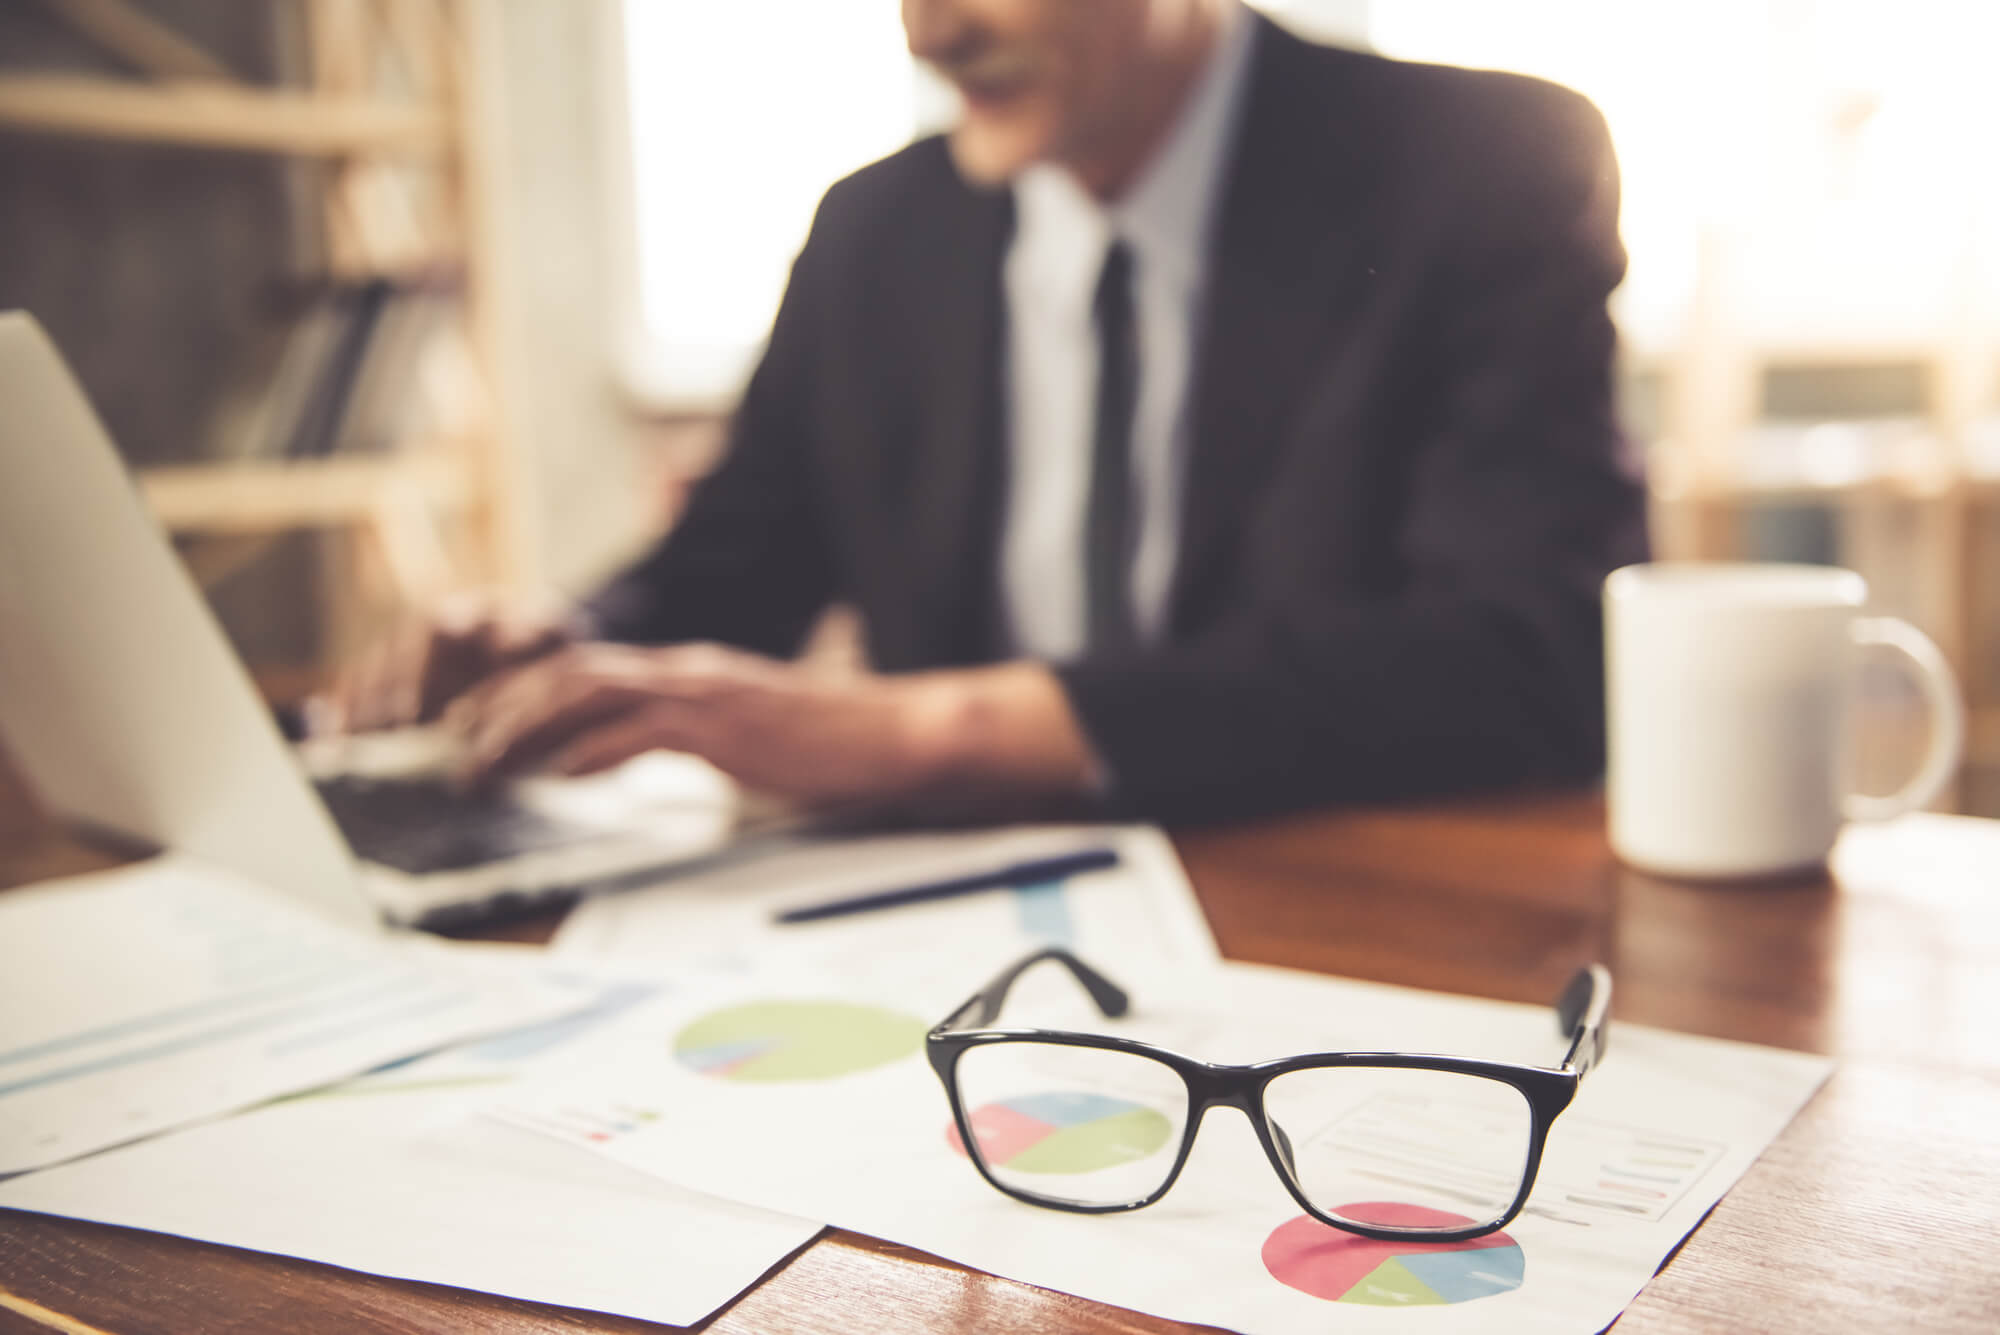
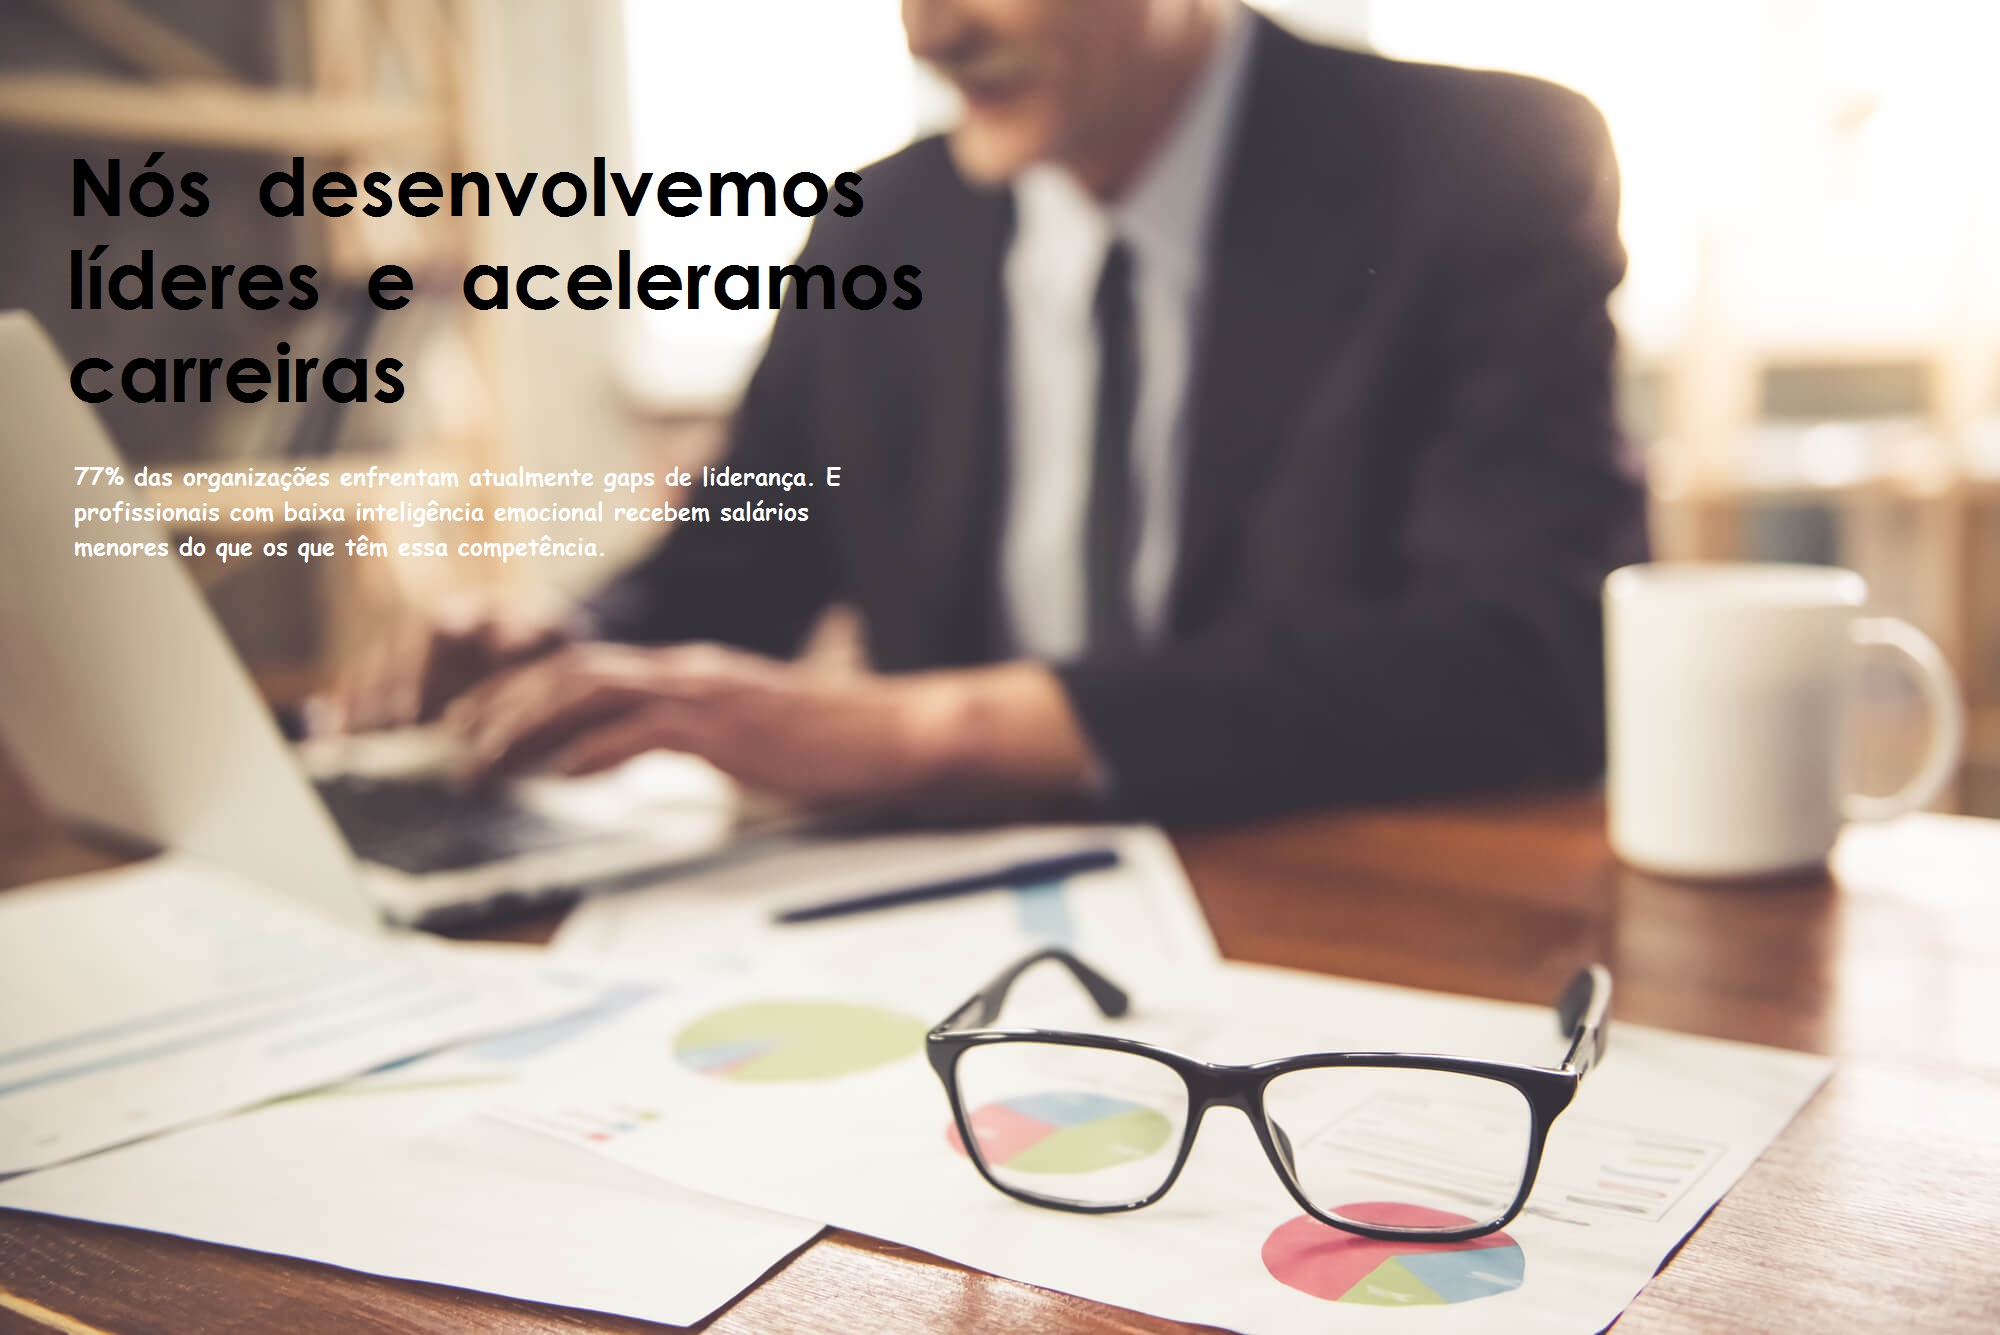
Signed-off-by: dayanenubia <dayane.nubia67@gmail.com>

Changed region(s): [[0.031, 0.1228, 0.465, 0.3071], [0.031, 0.3378, 0.403, 0.43]]

diff --git a/paginainicial.html b/paginainicial.html
@@ -3,12 +3,18 @@
   <head>
     <!-- Required meta tags -->
     <meta charset="utf-8">
+
     <meta name="viewport" content="width=device-width, initial-scale=1, shrink-to-fit=no">
 
     <!-- Bootstrap CSS -->
     <link rel="stylesheet" href="https://stackpath.bootstrapcdn.com/bootstrap/4.1.3/css/bootstrap.min.css" integrity="sha384-MCw98/SFnGE8fJT3GXwEOngsV7Zt27NXFoaoApmYm81iuXoPkFOJwJ8ERdknLPMO" crossorigin="anonymous">
+
     <link rel="stylesheet" type="text/css" href="paginainicial.css">
+
+    <link rel="stylesheet" href="https://use.fontawesome.com/releases/v5.5.0/css/all.css" integrity="sha384-B4dIYHKNBt8Bc12p+WXckhzcICo0wtJAoU8YZTY5qE0Id1GSseTk6S+L3BlXeVIU" crossorigin="anonymous">
+
     <title>PENSE</title>
+
   </head>
   <body style="img">
     <!-- NAVBAR -->
@@ -24,7 +30,7 @@
               <a class="nav-link" href="inicio.html"><h5>Ínicio</h5></a>
             </li>
             <li class="nav-item active">
-              <a class="nav-link" href="corporativas.html"><h5>Soluçôes Corporativas</h5></a>
+              <a class="nav-link" href="corporativas.html"><h5>Soluções Corporativas</h5></a>
             </li>
             <li class="nav-item active">
               <a class="nav-link" href="carreira.html"><h5>Sua Carreira</h5></a>
@@ -49,6 +55,59 @@
         <div class="carousel-inner">
           <div class="carousel-item active">
             <img class="d-block w-100" src="imagem.jpg" alt="First slide">
+          </div>
+        </div>
+      </div>
+
+    <!-- BRANCO -->
+      <div class="branco">
+        <div class="container">
+          <div class="texto">
+            <h1 style="font-size: 60px;"><b>O alto custo de uma liderança ruim</b></h1>
+            <h4>Vai deixar que essa situação ocorra com sua empresa?</h4>
+          </div>
+          <div class="row" align="center">
+            <div class="col" align="center">
+              <div class="card" style="width: 18rem;">
+                <div class="card-body">
+                  <h5 class="card-title" style="font-size: 100px;">32%</h5>
+                  <h6 class="card-subtitle mb-2 text-muted">do turnover pode ser evitado através de melhores habilidades de liderança.</h6>
+                  <p class="card-text">*Blanchard Company for their book Leading People</p>
+                </div>
+              </div> 
+            </div>
+            <div class="col">
+              <div class="card" style="width: 18rem;">
+                <div class="card-body">
+                  <h5 class="card-title" style="font-size: 100px;">50%</h5>
+                  <h6 class="card-subtitle mb-2 text-muted">da baixa produtividade dos funcionários vêm da falta de habilidades de liderança dos gestores. </h6>
+                  <p class="card-text">*Rosen and Brown</p>
+                </div>
+              </div> 
+            </div>
+            <div class="col">
+              <div class="card" style="width: 18rem;">
+                <div class="card-body">
+                  <h5 class="card-title" style="font-size: 100px;">57%</h5>
+                  <h6 class="card-subtitle mb-2 text-muted">dos profissionais afirmam que a falta de direcionamento claro é o maior problema de liderança das empresas</h6>
+                  <p class="card-text">*Harvard Business Review</p>
+                </div>
+              </div> 
+            </div>
+          </div>
+        </div>
+      </div>
+
+    <!-- PRETO -->
+      <div class="preto">
+        <div class="container"> <br><br><br>
+          <h1 >DESAFIOS  DE  UMA  LIDERANÇA  COM  FALHAS</h1>
+          <h4>Se você chegou até aqui é provável que sofra de um dos problemas abaixo. Agora a desição de mudar está nas suas mãos.</h4>
+          <div class="row"> 
+            <div class="col-3" align="center">
+              <h1><i class="fas fa-stethoscope"></i></h1>
+              <p><i class="fas fa-bookmark"></i>Reuniões sem objetivo</p>
+            </div>
           </div>
         </div>
       </div>

diff --git a/paginainicial.css b/paginainicial.css
@@ -5,4 +5,31 @@ div.collapse {	margin-left: 30px;}
 div.cinza {	margin-right: 400px;}
 
 div.carousel-item {	height: 100%;
-					width: 100%;}
+					width: 100%;
+					margin-bottom: 90px;}
+
+div.texto {	color: black;
+			text-align: center;
+			}
+
+div.texto h4 {	color: grey;
+				margin-bottom: 45px;}
+
+div.card {	text-align: center;}
+
+div.preto {	background-color: black;
+			margin-bottom: 70px;}
+
+div.branco {	background-color: white;
+				margin-bottom: 70px;}
+
+div.container h1 {	text-align: center;
+					color: white;}
+
+div.container h4 {	text-align: center;
+					color: grey;}
+
+div.col-3 p {	color: white;}
+
+h1 i.fas {	color: grey;}
+
